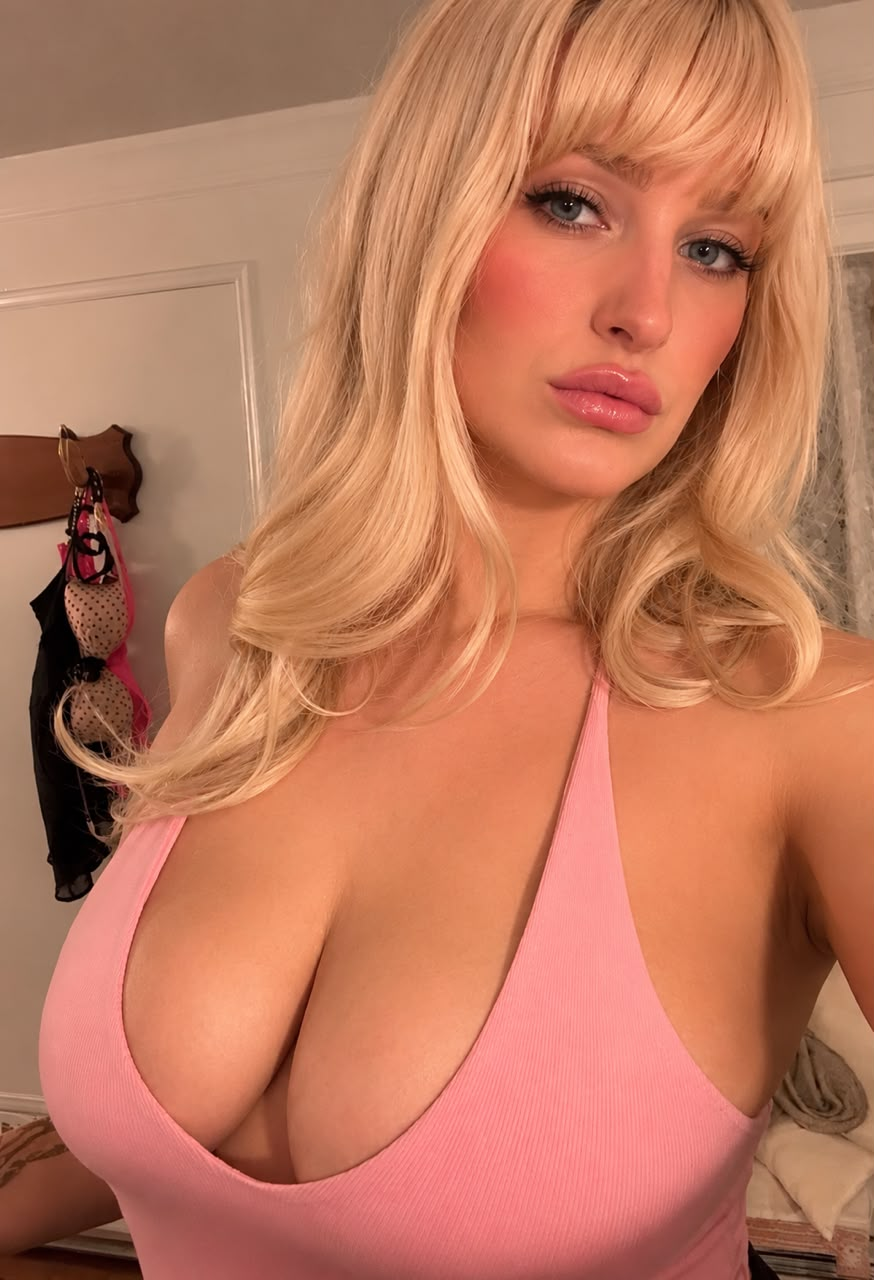
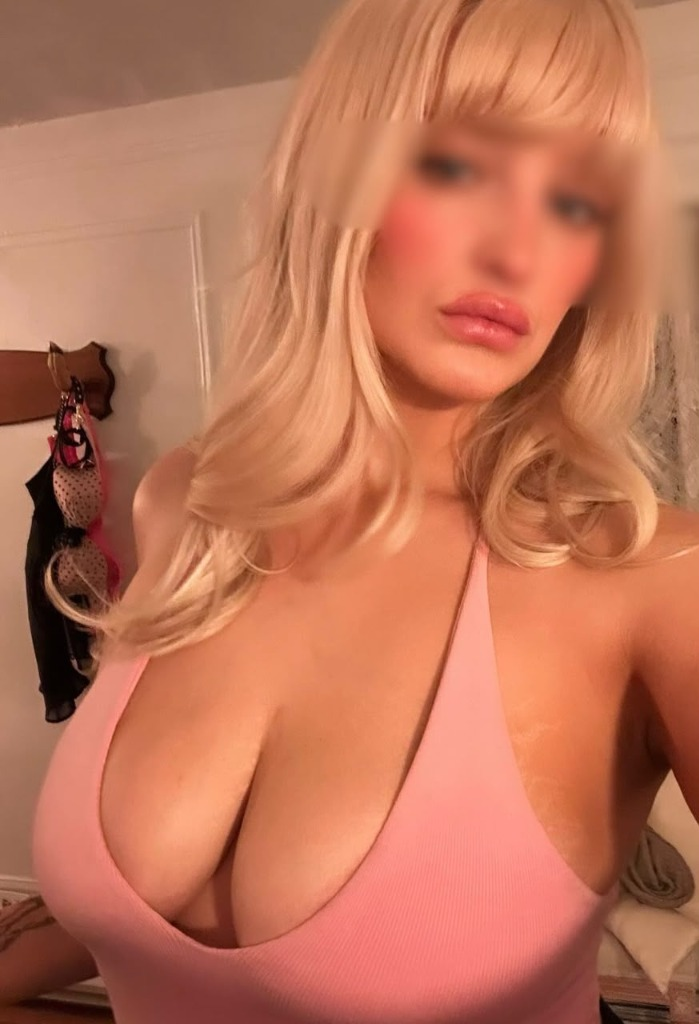
Update portrait with blurred version and replace bottom gallery photo

diff --git a/index.html b/index.html
@@ -294,8 +294,8 @@
                 </div>
                 <div class="col-lg-4 col-md-6 wow fadeInUp" data-wow-delay="0.6s">
                     <div class="gallery-card">
-                        <a href="img/evangeline-6.jpg" data-lightbox="gallery" data-title="Evangeline Mercer">
-                            <img src="img/evangeline-6.jpg" alt="Evangeline Mercer">
+                        <a href="img/evangeline-7.jpg" data-lightbox="gallery" data-title="Evangeline Mercer">
+                            <img src="img/evangeline-7.jpg" alt="Evangeline Mercer" style="object-position: center top;">
                             <div class="gallery-overlay">
                                 <i class="fa fa-expand text-white"></i>
                             </div>
